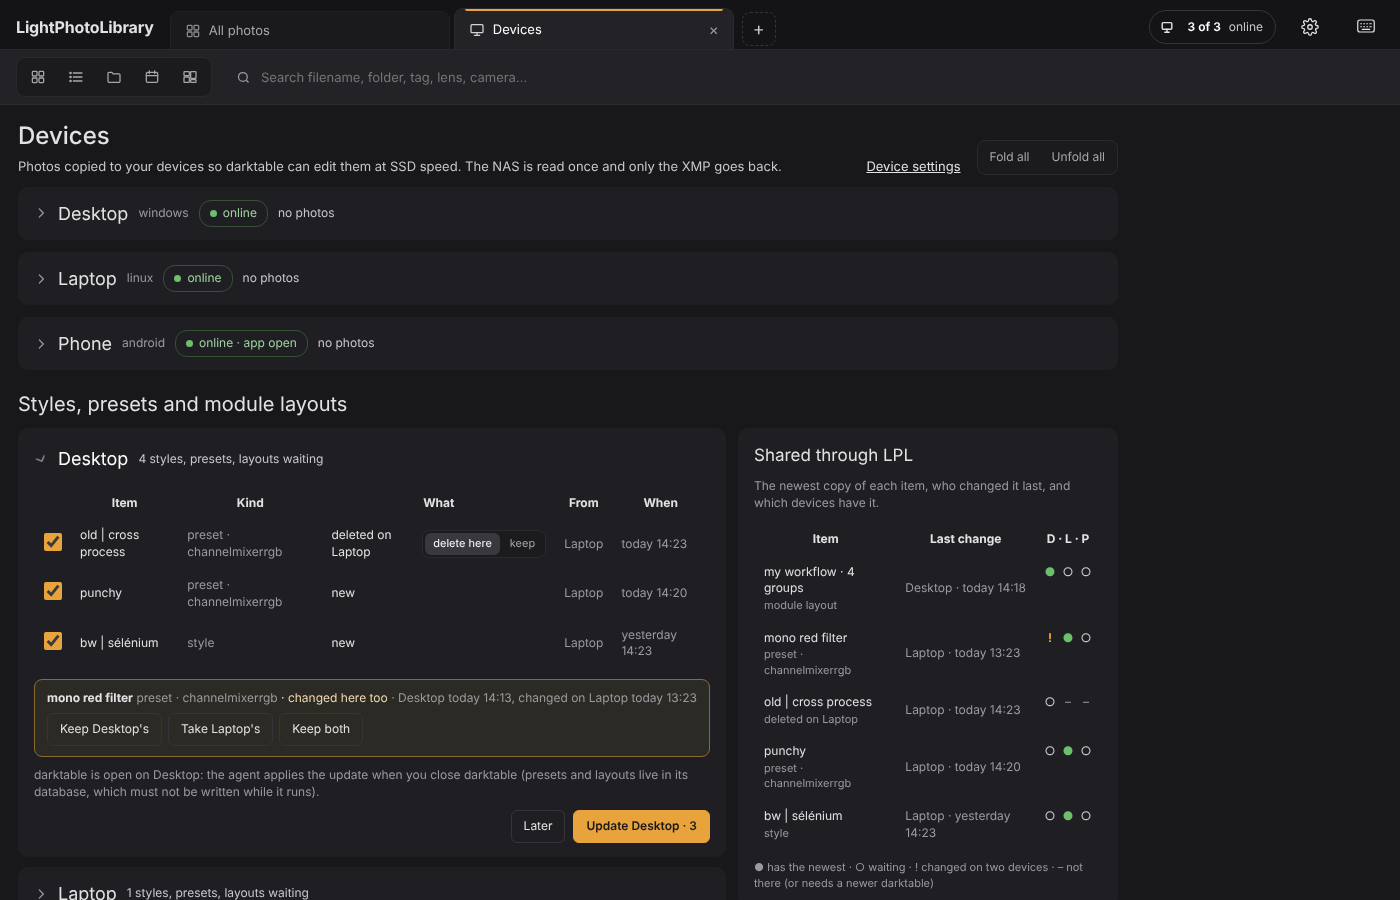
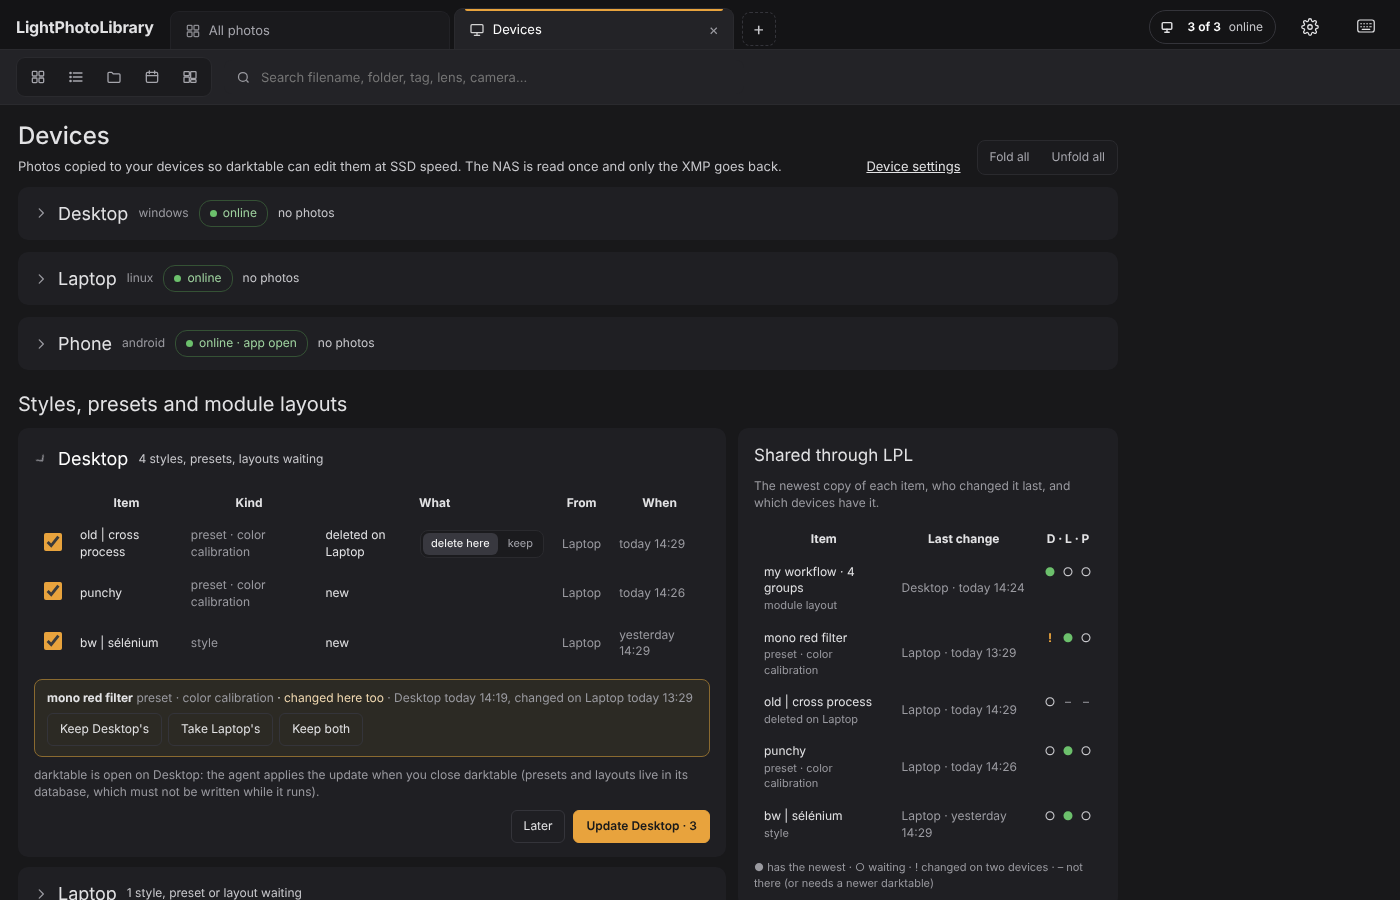
R11 review: data.db written only when darktable is surely closed; contract proposals 1-3; module names and plural in the web UI
Strict process check (failure = running) and darktable's data.db.lock with a live pid block
the shared-update apply; DELETE takes changed_at; contract copy updated; Devices page shows
'preset · color calibration' and '1 style, preset or layout waiting'; screenshots refreshed.

Claude-Session: https://claude.ai/code/session_01SnXMKoep891vjXMfqGv9Mc

diff --git a/web/src/shared.ts b/web/src/shared.ts
@@ -5,6 +5,8 @@ export type SharedKind = 'style' | 'preset' | 'layout'
 export interface SharedItem {
   id: number; kind: SharedKind; operation: string; op_version: number; name: string; rev: number; seq: number; hash: string
   changed_at: number | null; device_id: string | null; device_name: string | null; deleted: boolean; size: number
+  /** the module's display name (presets; from module-names.json on the server), "" when not known */
+  module?: string
 }
 export interface SharedWaiting extends SharedItem { what: 'new' | 'changed' | 'deleted' }
 export interface SharedConflict extends SharedItem { candidate: { changed_at: number | null; deleted: boolean; hash: string | null; base_rev: number | null } }
@@ -24,12 +26,12 @@ const plural = (n: number, one: string, many: string) => `${n} ${n === 1 ? one :
 export function waitingLine(d: Pick<SharedDevice, 'phone' | 'waiting' | 'conflicts'>): string {
   const n = d.waiting.length + d.conflicts.length
   if (d.phone) return n ? `${n} waiting · updated from the app` : 'up to date · updated from the app'
-  return n ? `${n} styles, presets, layouts waiting` : 'styles, presets, layouts up to date'
+  return n === 1 ? '1 style, preset or layout waiting' : n ? `${n} styles, presets, layouts waiting` : 'styles, presets, layouts up to date'
 }
 
-/** "style", "preset · exposure", "module layout". */
-export function kindText(i: Pick<SharedItem, 'kind' | 'operation'>): string {
-  return i.kind === 'style' ? 'style' : i.kind === 'layout' ? 'module layout' : `preset · ${i.operation}`
+/** "style", "preset · color calibration" (the operation when the name is not known), "module layout". */
+export function kindText(i: Pick<SharedItem, 'kind' | 'operation' | 'module'>): string {
+  return i.kind === 'style' ? 'style' : i.kind === 'layout' ? 'module layout' : `preset · ${i.module || i.operation}`
 }
 
 /** What happened to a waiting item, from this device's point of view. */

diff --git a/web/tests/shared.test.ts b/web/tests/shared.test.ts
@@ -7,10 +7,12 @@ const w = (id: number, what: 'new' | 'changed' | 'deleted') => ({ id, what })
 test('device line: PCs count what waits, the phone updates from the app', () => {
   assert.equal(waitingLine({ phone: false, waiting: [w(1, 'new') as any, w(2, 'changed')], conflicts: [{} as any] }), '3 styles, presets, layouts waiting')
   assert.equal(waitingLine({ phone: false, waiting: [], conflicts: [] }), 'styles, presets, layouts up to date')
+  assert.equal(waitingLine({ phone: false, waiting: [w(1, 'new') as any], conflicts: [] }), '1 style, preset or layout waiting')
   assert.equal(waitingLine({ phone: true, waiting: [w(1, 'new') as any], conflicts: [] }), '1 waiting · updated from the app')
 })
 test('kind and what', () => {
   assert.equal(kindText({ kind: 'preset', operation: 'exposure' }), 'preset · exposure')
+  assert.equal(kindText({ kind: 'preset', operation: 'channelmixerrgb', module: 'color calibration' }), 'preset · color calibration')
   assert.equal(kindText({ kind: 'layout', operation: 'modulegroups' }), 'module layout')
   assert.equal(whatText({ what: 'deleted', device_name: 'Laptop', device_id: 'x' }), 'deleted on Laptop')
   assert.equal(whatText({ what: 'changed', device_name: 'Laptop', device_id: 'x' }), 'changed')

diff --git a/agent/lpl_agent.py b/agent/lpl_agent.py
@@ -319,6 +319,55 @@ def darktable_running() -> bool:
         return False
 
 
+def darktable_running_strict() -> bool:
+    """darktable_running() for writing data.db: a check that fails counts as "running"."""
+    try:
+        if IS_WIN:
+            out = subprocess.run(["tasklist", "/FI", "IMAGENAME eq darktable.exe", "/FO", "CSV", "/NH"],
+                                 capture_output=True, text=True, creationflags=NO_WINDOW, timeout=20)
+            return out.returncode != 0 or "darktable.exe" in out.stdout.lower()
+        out = subprocess.run(["pgrep", "-x", "darktable"], capture_output=True, timeout=20)
+        return out.returncode != 1  # 0 = found, 1 = none, anything else = the check failed
+    except Exception:
+        return True
+
+
+def pid_alive(pid: int) -> bool:
+    """Is there a process with this id? When it cannot be told: yes."""
+    if pid <= 0:
+        return False
+    try:
+        if IS_WIN:
+            out = subprocess.run(["tasklist", "/FI", "PID eq %d" % pid, "/FO", "CSV", "/NH"],
+                                 capture_output=True, text=True, creationflags=NO_WINDOW, timeout=20)
+            return out.returncode != 0 or ('"%d"' % pid) in out.stdout
+        os.kill(pid, 0)
+        return True
+    except ProcessLookupError:
+        return False
+    except Exception:
+        return True
+
+
+def data_db_locked(path: Path) -> bool:
+    """darktable's own lock file beside data.db (data.db.lock, holding its pid) names a live process. A lock whose pid
+    is gone is stale (darktable crashed): not locked. A lock that cannot be read counts as locked."""
+    lock = Path(str(path) + ".lock")
+    if not lock.exists():
+        return False
+    try:
+        txt = lock.read_text(encoding="utf-8", errors="replace").strip()
+    except OSError:
+        return True
+    m = re.match(r"\d+", txt)
+    return pid_alive(int(m.group(0))) if m else True
+
+
+def data_db_writable(path: Path) -> bool:
+    """data.db may be written only when darktable is surely closed."""
+    return not darktable_running_strict() and not data_db_locked(path)
+
+
 def bridge_alive() -> bool:
     try:
         return time.time() - (BRIDGE / "alive").stat().st_mtime < 12
@@ -738,7 +787,7 @@ class SharedSync:
         running = darktable_running()
         job = self.data.get("job")
         if job:
-            if running:
+            if not data_db_writable(self.path()):
                 self.update = "waiting_for_darktable"
             else:
                 self.apply_job(job)
@@ -827,7 +876,7 @@ class SharedSync:
 
     def delete(self, key, st):
         try:
-            r = self.agent.srv.json("DELETE", "/api/shared/%d?agent=%s&base_rev=%d" % (st["id"], urllib.parse.quote(self.agent.cfg["id"]), st.get("rev") or 0))
+            r = self.agent.srv.json("DELETE", "/api/shared/%d?agent=%s&base_rev=%d&changed_at=%.3f" % (st["id"], urllib.parse.quote(self.agent.cfg["id"]), st.get("rev") or 0, time.time()))
         except urllib.error.HTTPError as e:
             if e.code == 409:
                 st["state"] = "conflict"
@@ -872,7 +921,7 @@ class SharedSync:
             for iid in p.get("delete") or []:
                 g = got[iid]
                 deletes.append((g["kind"], g["operation"], g["op_version"], g["name"]))
-            if darktable_running():  # started again meanwhile: wait
+            if not data_db_writable(self.path()):  # started again meanwhile (or not surely closed): wait
                 self.update = "waiting_for_darktable"
                 return
             log.info("shared update: %d written, %d deleted, %d kept", len(writes), len(deletes), len(p.get("keep") or []))

diff --git a/server/lpl/shared.py b/server/lpl/shared.py
@@ -159,6 +159,14 @@ def meta(r) -> dict:
             "device_name": r["device_name"], "deleted": bool(r["deleted"]), "size": r["size"]}
 
 
+def ui_meta(r) -> dict:
+    """meta for the web UI: also the module's display name ("color calibration" for channelmixerrgb; module-names.json)."""
+    from . import edits
+    m = meta(r)
+    m["module"] = edits.module_name(r["operation"]) if r["kind"] == "preset" else ""
+    return m
+
+
 def _next_seq(c) -> int:
     return (c.execute("SELECT COALESCE(MAX(seq),0) FROM shared_items").fetchone()[0] or 0) + 1
 
@@ -268,7 +276,7 @@ def waiting_for(c, aid: str) -> List[dict]:
             what = "deleted"
         else:
             what = "new" if st is None else "changed"
-        out.append(dict(meta(r), what=what))
+        out.append(dict(ui_meta(r), what=what))
     return out
 
 
@@ -277,7 +285,7 @@ def conflicts_of(c, aid: str) -> List[dict]:
     for k in c.execute("SELECT k.*, i.id AS iid FROM shared_candidates k JOIN shared_items i ON i.id=k.item_id WHERE k.agent_id=? "
                        "ORDER BY k.created", (aid,)).fetchall():
         r = _item(c, k["iid"])
-        out.append(dict(meta(r), candidate={"changed_at": k["changed_at"], "deleted": bool(k["deleted"]), "hash": k["hash"],
+        out.append(dict(ui_meta(r), candidate={"changed_at": k["changed_at"], "deleted": bool(k["deleted"]), "hash": k["hash"],
                                             "base_rev": k["base_rev"]}))
     return out
 
@@ -332,7 +340,7 @@ def shared_devices():
                 dots[aid] = "newest"
             else:
                 dots[aid] = "absent"
-        items.append(dict(meta(r), devices=dots))
+        items.append(dict(ui_meta(r), devices=dots))
     return {"policy": _policy_pc(), "devices": devices, "items": items}
 
 
@@ -417,7 +425,7 @@ def shared_put(agent: str = "", body: Dict[str, Any] = Body(...)):
 
 
 @router.delete("/api/shared/{iid:int}")
-def shared_delete(iid: int, agent: str = "", base_rev: int = -1):
+def shared_delete(iid: int, agent: str = "", base_rev: int = -1, changed_at: str = ""):
     aid = _agent_id(agent)
     with db.write_lock:
         c = db.conn()
@@ -429,7 +437,7 @@ def shared_delete(iid: int, agent: str = "", base_rev: int = -1):
             _set_state(c, aid, iid, r["rev"])
             c.commit()
             return {"id": iid, "rev": r["rev"], "seq": r["seq"], "decided": None}
-        now = time.time()
+        now = _time(changed_at) if changed_at else time.time()  # optional (PLAN 4.5): when the device deleted it
         if base_rev == r["rev"]:
             _new_revision(c, r, body=None, hsh=r["hash"], deleted=True, changed_at=now, aid=aid, dev=_device_name(c, aid))
             c.execute("DELETE FROM shared_candidates WHERE agent_id=? AND item_id=?", (aid, iid))

diff --git a/server/tests/test_pc_agent_shared.py b/server/tests/test_pc_agent_shared.py
@@ -79,6 +79,7 @@ class Dt:
 
 def make_agent(agent_mod, base_url, tmp_path, monkeypatch, aid="pc-shared-agent", name="Desktop"):
     monkeypatch.setattr(agent_mod, "darktable_running", lambda: Dt.running)
+    monkeypatch.setattr(agent_mod, "darktable_running_strict", lambda: Dt.running)
     d = tmp_path / aid
     d.mkdir(exist_ok=True)
     monkeypatch.setattr(agent_mod, "STATE_FILE", d / "state.json")
@@ -257,3 +258,37 @@ def test_deletion_delete_here_and_keep(agent_mod, base_url, fresh, tmp_path, mon
     two = server_items(fresh)["two"]
     assert two["deleted"] is False and two["rev"] == 3
     assert {x["name"]: x["what"] for x in devices(fresh, "pc-shared-a")["waiting"]} == {"two": "changed"}
+
+
+def test_never_writes_data_db_unless_surely_closed(agent_mod, base_url, fresh, tmp_path, monkeypatch):
+    """A failed process check counts as running; darktable's data.db.lock with a live pid blocks; a stale one does not."""
+    import os
+    import subprocess
+    Dt.running = False
+    strict = agent_mod.darktable_running_strict  # the real one (make_agent replaces it)
+    a, pa = make_agent(agent_mod, base_url, tmp_path, monkeypatch, "pc-shared-a", "Desktop")
+    b, pb = make_agent(agent_mod, base_url, tmp_path, monkeypatch, "pc-shared-b", "Laptop")
+    monkeypatch.setattr(agent_mod, "darktable_running_strict", strict)
+    add_preset(pa, "bright")
+    a.shared.tick(force=True)
+    fresh.post("/api/shared/update", json={"agent": "pc-shared-b", "ids": [server_items(fresh)["bright"]["id"]]})
+
+    def broken(*args, **kw):
+        raise OSError("no process list")
+    assert agent_mod.darktable_running() is False  # the plain check (patched by the tests) ...
+    monkeypatch.setattr(agent_mod.subprocess, "run", broken)
+    assert agent_mod.darktable_running_strict() is True  # ... but a failed strict check counts as running
+    beat(b)
+    b.shared.tick()
+    assert b.shared.update == "waiting_for_darktable" and rows(pb, "SELECT COUNT(*) FROM presets")[0][0] == 0
+    monkeypatch.setattr(agent_mod.subprocess, "run", subprocess.run)
+    monkeypatch.setattr(agent_mod, "darktable_running_strict", lambda: False)
+    lock = Path(str(pb) + ".lock")
+    lock.write_text(str(os.getpid()))  # a live pid: darktable holds data.db
+    b.shared.tick()
+    assert b.shared.update == "waiting_for_darktable" and rows(pb, "SELECT COUNT(*) FROM presets")[0][0] == 0
+    dead = subprocess.Popen(["true"]); dead.wait()
+    lock.write_text(str(dead.pid))  # stale lock of a darktable that is gone: not running
+    assert agent_mod.data_db_locked(pb) is False
+    b.shared.tick()
+    assert b.shared.update is None and rows(pb, "SELECT name FROM presets") == [("bright",)]

diff --git a/server/tests/test_shared.py b/server/tests/test_shared.py
@@ -282,3 +282,20 @@ def test_migrate_twice_changes_nothing(c):
         db.migrate(db.conn())
         db.migrate(db.conn())
     assert db.conn().execute("SELECT COUNT(*) FROM shared_items").fetchone()[0] == 1
+
+
+def test_delete_carries_changed_at_for_newest_wins(c):
+    a = put(c, PC, preset(), changed_at=1000).json()
+    put(c, PC2, preset())
+    put(c, PC, preset(params="11"), base_rev=1, changed_at=3000)
+    c.put("/api/prefs/settings", json={"value": {"sharedPolicy": "newest"}})
+    old = c.delete("/api/shared/%d?agent=%s&base_rev=1&changed_at=2000" % (a["id"], PC2["id"])).json()
+    assert old["decided"] == "theirs" and c.get("/api/shared/%d" % a["id"]).json()["deleted"] is False
+    new = c.delete("/api/shared/%d?agent=%s&base_rev=1&changed_at=4000" % (a["id"], PC2["id"])).json()
+    assert new["decided"] == "mine" and c.get("/api/shared/%d" % a["id"]).json()["changed_at"] == 4000.0
+
+
+def test_devices_page_names_the_module(c):
+    put(c, PC, preset())
+    it = c.get("/api/shared/devices").json()["items"][0]
+    assert it["operation"] == "channelmixerrgb" and it["module"] == "color calibration"

diff --git a/web/tests/shared-check.py b/web/tests/shared-check.py
@@ -112,9 +112,10 @@ def main(py: str, shots: Path) -> None:
             expect(desk).to_contain_text("darktable is open on Desktop")
             expect(desk.get_by_role("button", name="Update Desktop · 3")).to_be_visible()
             expect(page.locator(".sharedpanel")).to_contain_text("Shared through LPL")
+            expect(desk).to_contain_text("preset · color calibration")
             expect(page.locator(".sharedpanel .shareddot.conflict")).to_have_count(1)
             page.screenshot(path=str(shots / "desktop-shared.png"), full_page=True)
-            results.append("desktop: table with style / deletion / preset rows, conflict box, darktable note, Update Desktop · 3, overview panel")
+            results.append("desktop: table with style / deletion / preset rows, conflict box, darktable note, Update Desktop · 3, overview panel; module named 'color calibration'")
             del_row = rows.filter(has_text="old | cross process")
             del_row.get_by_role("button", name="keep").click()
             rows.filter(has_text="punchy").get_by_role("checkbox").uncheck()

diff --git a/docs/shared-r11.md b/docs/shared-r11.md
@@ -39,8 +39,8 @@ Owner's decisions: 3.9; mockups approved 24 Nov 2026 (PCs update from LPL's Devi
 |---|---|
 | `GET /api/shared?agent=<id>&since=<seq>` | `{"seq": n, "items": [{id, kind, operation, op_version, name, rev, seq, hash, changed_at, device_id, device_name, deleted, size}], "conflicts": [{item_id, changed_at, deleted}]}`: items whose `seq` > `since` (deleted ones too), and the open conflicts of that agent. `seq` is one counter for all items; `since=0` lists everything. No bodies. |
 | `GET /api/shared/{id}` | `{…meta, "body": {…}}` of the current revision. |
-| `PUT /api/shared?agent=<id>` | Body `{kind, operation, op_version, name, hash, changed_at, base_rev, body}` (`base_rev` 0 = the device has no revision yet). New key: stored as rev 1. Same key and `base_rev` = current rev (or the hash equals the current one, whatever `base_rev`): stored as rev+1, or nothing changes when the hash is equal; a deleted item comes back. Otherwise the item changed elsewhere: the server stores this copy as the agent's **conflict candidate** (one per agent and item, replaced by a newer PUT) and answers `409 {"error": "changed_elsewhere", "item": {…meta}}`, unless the agent's policy is `newest` (below), in which case it decides at once and answers 200 with what it decided. 200 answer: `{id, rev, seq, "decided": null \| "mine" \| "theirs"}`. |
-| `DELETE /api/shared/{id}?agent=<id>&base_rev=<n>` | `base_rev` = current rev: the item becomes a deletion (rev+1; the last body is kept for "keep" and for history). Otherwise a conflict candidate that says "deleted", 409 as above. |
+| `PUT /api/shared?agent=<id>` | Body `{kind, operation, op_version, name, hash, changed_at, base_rev, body}` (`base_rev` 0 = the device has no revision yet). New key: stored as rev 1. Same key and `base_rev` = current rev (or the hash equals the current one, whatever `base_rev`): stored as rev+1, or nothing changes when the hash is equal; a deleted item comes back. Otherwise the item changed elsewhere: the server stores this copy as the agent's **conflict candidate** (one per agent and item, replaced by a newer PUT) and answers `409 {"error": "changed_elsewhere", "item": {…meta}}`, unless the agent's policy is `newest` (below), in which case it decides at once and answers 200 with what it decided. 200 answer: `{id, rev, seq, "decided": null \| "mine" \| "theirs"}`. The server recomputes the hash of `body`; a different `hash` is `400 {"error": "hash_mismatch", "hash": <server's>}`. `changed_at` everywhere = seconds since 1970, a number. |
+| `DELETE /api/shared/{id}?agent=<id>&base_rev=<n>[&changed_at=<t>]` | `changed_at` optional (when the device deleted it; absent = the server's time; used by newest wins). `base_rev` = current rev: the item becomes a deletion (rev+1; the last body is kept for "keep" and for history). Otherwise a conflict candidate that says "deleted", 409 as above. |
 | `POST /api/shared/{id}/resolve` | `{"agent": …, "choice": "mine" \| "theirs" \| "both"}` for that agent's open conflict. `mine`: the candidate becomes the current revision. `theirs`: the candidate is dropped. `both` (not for a deletion): the candidate becomes the current revision and the previous content is stored as a new item named `<name> (<device name of the previous revision>)`. Answers `{"items": [{…meta}]}` that changed. |
 | `PUT /api/shared/state?agent=<id>` | `{"items": {"<id>": {"rev": n, "state": "ok" \| "kept" \| "unusable"}}, "policy": "ask" \| "newest"}`, the whole list each time (replace). Sent after an update, after uploads, and once on start. The phone sends its own policy; for a PC the policy is set in LPL's settings and the agent's `policy` is ignored. |
 | `GET /api/shared/devices` | For the web UI: per agent with `shared` in caps, what it is waiting for and its open conflicts; per item, which agents have the current rev. |

diff --git a/docs/shared-r11-REPORT.md b/docs/shared-r11-REPORT.md
@@ -33,7 +33,7 @@ python web/tests/shared-check.py <python with server/requirements.txt> docs/shot
 ```
 
 ## Results
-- Server: **235 passed** (209 before; +20 `test_shared.py`, +6 `test_pc_agent_shared.py`).
+- Server: **238 passed** (209 before; +22 `test_shared.py`, +7 `test_pc_agent_shared.py`).
   The only edit to an existing test: `test_pc_agent.py` now expects caps `["batch", "cancel", "open", "versions", "shared"]`.
 - Hash vectors (`server/tests/fixtures/r11-hash-vectors.json`): server and agent both reproduce all three; the agent also
   reproduces them through a real `data.db` row (REAL, BLOB, NULL, non-ASCII) in `test_snapshot_picks_shared_items_and_matches_the_hash_vectors`.
@@ -47,7 +47,13 @@ python web/tests/shared-check.py <python with server/requirements.txt> docs/shot
   package with `darktable/module-names.json`), on commit 78b1122. The last
   run on `main` before this branch (45401676584) failed at "Get exiftool for Windows" (download), not related to this work.
 
-## Choices the contract leaves open (please confirm)
+## Review round 1 (supervisor)
+- Proposals 1-3 accepted; `docs/shared-r11.md` updated: `changed_at` = seconds since 1970; `hash_mismatch` 400; optional `&changed_at=` on DELETE (server uses it for newest wins, the agent sends it). Test `test_delete_carries_changed_at_for_newest_wins`.
+- Safety: the agent writes `data.db` only when `data_db_writable()`: a strict process check (a failed check = running) and no `data.db.lock` naming a live pid (a stale lock of a dead pid is ignored; an unreadable lock = locked). Test `test_never_writes_data_db_unless_surely_closed`.
+- No `unusable` on PCs; count only for the phone (answered).
+- Web: module display names ("preset · color calibration", from the server's module-names.json; `GET /api/shared/devices` adds `module`), and "1 style, preset or layout waiting". Screenshots refreshed.
+
+## Choices the contract leaves open (as first proposed)
 1. **`changed_at`**: the server takes seconds since 1970 (number) or an ISO 8601 text and stores and returns seconds.
    Proposal for PLAN 4.5: "changed_at = seconds since 1970, a number".
 2. **Hash check**: the server recomputes the hash of the body and answers `400 {"error": "hash_mismatch", "hash": …}` when the PUT's `hash` differs. Not in the contract; proposal to add it.
